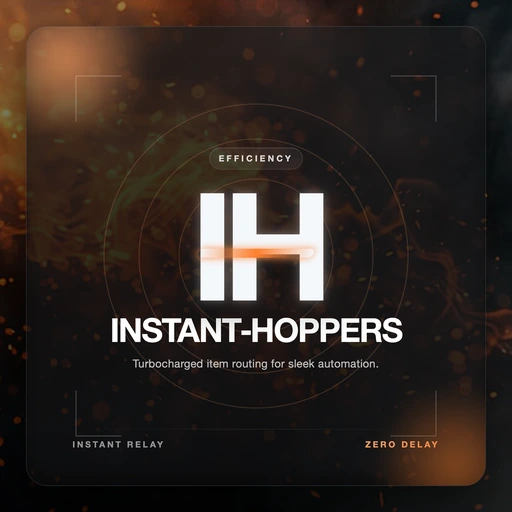
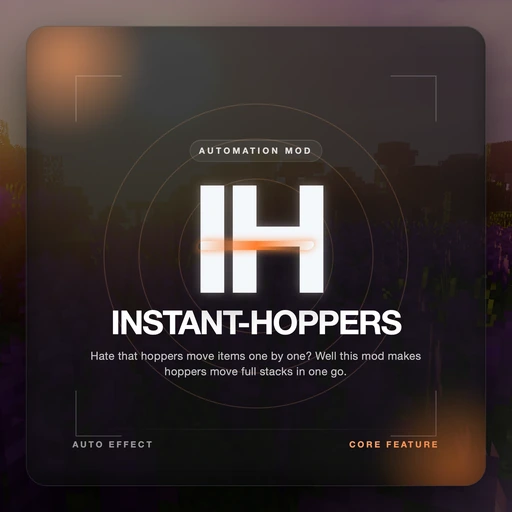
Auto-sync Instant-Hoppers source snapshot

diff --git a/docs/Home.md b/docs/Home.md
@@ -1,16 +1,20 @@
 # Instant-Hoppers
 
-Instant Hoppers.
+This mod makes Minecraft hoppers move items faster and pull items from the ground automatically.
 
 ## What It Does
-
-- ...
+- Hoppers transfer items instantly, moving full stacks in one go instead of one item at a time.
+- They also suck up items that are lying on the ground right next to them.
+- The transfer keeps going until the hopper is empty or the destination is full, so you don’t have to wait for multiple ticks.
+- No extra buttons or recipes are needed; the change works automatically in any world.
+- Hoppers can move full stacks in one go instead of only one item at a time.
+- Hoppers also pull dropped items on top into themselves right away.
 
 ## Quick Facts
 
 
 
-- Summary: Hate that hoppers move items too slowly? Well this mod makes hoppers move items faster automatically.
+- Summary: Hate that hoppers move items one by one? Well this mod makes hoppers move full stacks in one go.
 
 - Loader: `forge`
 

diff --git a/docs/README.md b/docs/README.md
@@ -1,16 +1,20 @@
 # Instant-Hoppers
 
-Instant Hoppers.
+This mod makes Minecraft hoppers move items faster and pull items from the ground automatically.
 
 ## What It Does
-
-- ...
+- Hoppers transfer items instantly, moving full stacks in one go instead of one item at a time.
+- They also suck up items that are lying on the ground right next to them.
+- The transfer keeps going until the hopper is empty or the destination is full, so you don’t have to wait for multiple ticks.
+- No extra buttons or recipes are needed; the change works automatically in any world.
+- Hoppers can move full stacks in one go instead of only one item at a time.
+- Hoppers also pull dropped items on top into themselves right away.
 
 ## Quick Facts
 
 
 
-- Summary: Hate that hoppers move items too slowly? Well this mod makes hoppers move items faster automatically.
+- Summary: Hate that hoppers move items one by one? Well this mod makes hoppers move full stacks in one go.
 
 - Loader: `forge`
 

diff --git a/README.md b/README.md
@@ -1,10 +1,14 @@
 # Instant-Hoppers
 
-Instant Hoppers.
+This mod makes Minecraft hoppers move items faster and pull items from the ground automatically.
 
 ## What It Does
-
-- ...
+- Hoppers transfer items instantly, moving full stacks in one go instead of one item at a time.
+- They also suck up items that are lying on the ground right next to them.
+- The transfer keeps going until the hopper is empty or the destination is full, so you don’t have to wait for multiple ticks.
+- No extra buttons or recipes are needed; the change works automatically in any world.
+- Hoppers can move full stacks in one go instead of only one item at a time.
+- Hoppers also pull dropped items on top into themselves right away.
 
 ---
 
